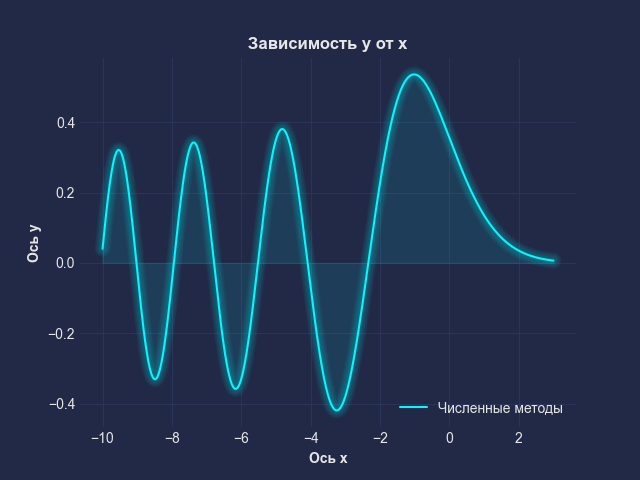
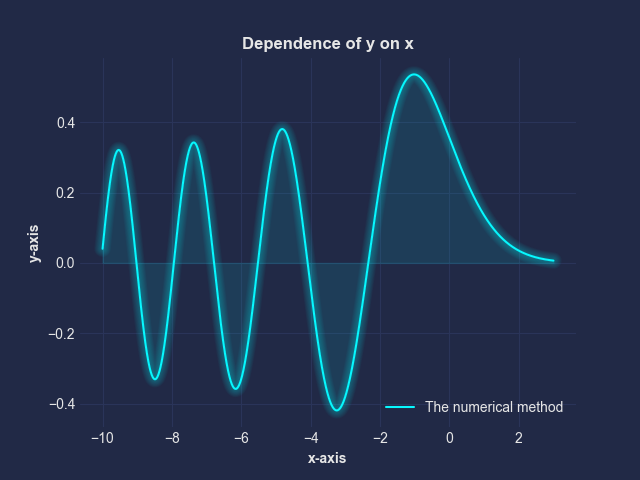
🐣 Update data_numerical.py

diff --git a/src/data_numerical.py b/src/data_numerical.py
@@ -1,5 +1,5 @@
 '''
-The data_numerical.py file provides the solution of the equation by numerical methods\
+The data_numerical.py file provides the solution of the equation by numerical methods \
 and the simplest processing of the results obtained.
 '''
 
@@ -67,11 +67,11 @@ def draw_plot_airy(dataframe, filename='Plot of the Airy function', show=True):
 
    plt.style.use("cyberpunk")
    plt.figure()
-   plt.plot(x_list, y_list, label='Численные методы')
+   plt.plot(x_list, y_list, label='The numerical method')
    plt.legend(loc='lower right')
-   plt.title('Зависимость y от x', weight='bold')
-   plt.xlabel('Ось x', weight='bold')
-   plt.ylabel('Ось y', weight='bold')
+   plt.title('Dependence of y on x', weight='bold')
+   plt.xlabel('x-axis', weight='bold')
+   plt.ylabel('y-axis', weight='bold')
    mplcyberpunk.add_glow_effects()
    plt.savefig(f'data/images/{filename}.png')
    if show: plt.show()
